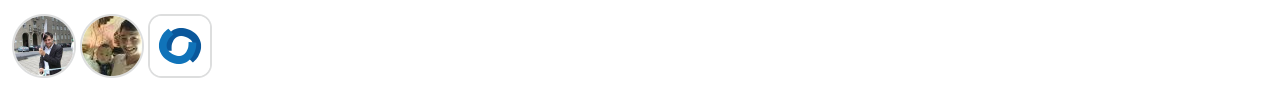
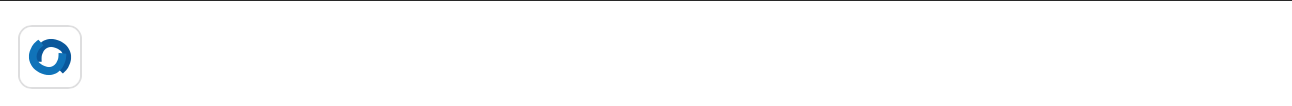
[Website] Update sponsors and backers

diff --git a/docs/src/pages/index.jsx b/docs/src/pages/index.jsx
@@ -54,13 +54,8 @@ function CompanyLogos() {
           Sponsored by
         </p>
         <div className="tw-flex tw-justify-center tw-flex-wrap">
-          <CompanyLogo imageSrc={useBaseUrl('img/trusted-by/erkoware_logo.svg')} companyName="erkoware solutions" href="https://www.erkoware.de/" />
+          {/* <CompanyLogo imageSrc={useBaseUrl('img/trusted-by/company.svg')} companyName="company" href="company" /> */}
           <PlusLogo />
-          {/* <CompanyLogo imageSrc="https://tailwindui.com/img/logos/mirage-logo-gray-400.svg" />
-          <CompanyLogo imageSrc="https://tailwindui.com/img/logos/tuple-logo-gray-400.svg" />
-          <CompanyLogo imageSrc="https://tailwindui.com/img/logos/laravel-logo-gray-400.svg" />
-          <CompanyLogo imageSrc="https://tailwindui.com/img/logos/statickit-logo-gray-400.svg" />
-          <CompanyLogo imageSrc="https://tailwindui.com/img/logos/statamic-logo-gray-400.svg" /> */}
         </div>
       </div>
     </div>

diff --git a/README.md b/README.md
@@ -65,10 +65,6 @@ The development server is started! Go to `http://localhost:3001` and find our we
 
 :point_right: [Continue with the tutorial](https://foalts.org/docs) :seedling:
 
-## Sponsors
-
-[![sponsors](./sponsors.png)](https://github.com/sponsors/LoicPoullain)
-
 ## Backers
 
 [![backers](./backers.png)](https://github.com/sponsors/LoicPoullain)
